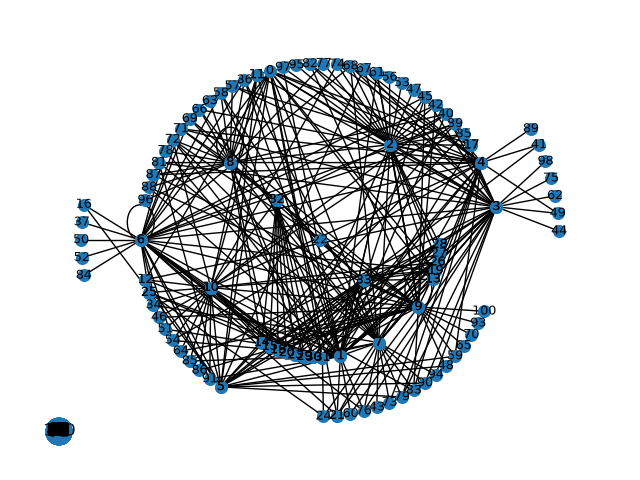
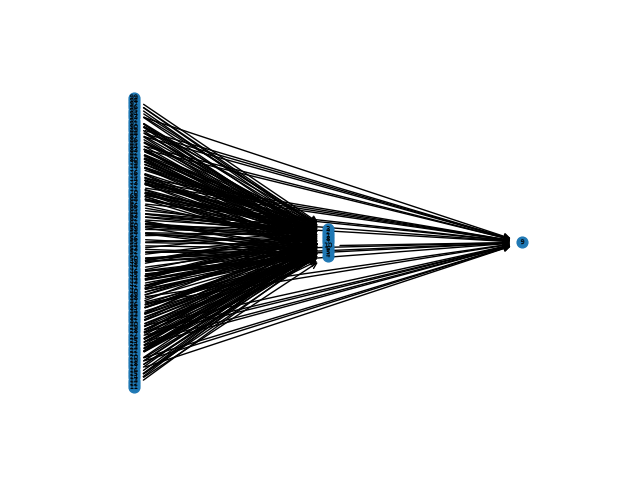
implementado modelo no script principal (teste)

Changed region(s): [[0.0938, 0.0938, 0.9062, 0.9062], [0.0625, 0.875, 0.125, 0.9375]]

diff --git a/src/main.py b/src/main.py
@@ -5,6 +5,9 @@ from pathlib import Path
 from pprint import pprint
 import matplotlib.pyplot as plt
 import networkx as nx
+import numpy as np
+import gurobipy as gp
+from gurobipy import GRB
 
 import time
 import csv
@@ -47,39 +50,52 @@ pprint(demandantes)
 pprint(funcionarios)
 
 
-#G = nx.Graph()
+G = nx.DiGraph()
 
 # G = nx.balanced_tree(3, 5)
 # elarge = [(u, v) for (u, v, d) in G.edges(data=True) if d["weight"] > 0.5]
 
-G = nx.karate_club_graph()
+# G = nx.karate_club_graph()
+
+# funcionarios = funcionarios[0:30]
+
 
 for n in funcionarios:
+    
     pprint(n)
     if n[2] == "":
         continue
     
     dem = n[2].rsplit(", ")
+    n[2] = dem
     for d in dem:
+        d = int(d)
         pprint(f"{n[0]}->{d}")
-        G.add_edge(n[0], d, weight=1 )
+        G.add_edge(int(n[0]), int(d), weight=1 )
+        
     
+    
+    
+
 arestas = [(u, v) for (u, v, d) in G.edges(data=True)]
 
 pprint(arestas)
 
 # elarge = [(u, v) for (u, v, d) in G.edges(data=True) if d["weight"] > 0.5]
 # esmall = [(u, v) for (u, v, d) in G.edges(data=True) if d["weight"] <= 0.5]
-    
+  
+layers = dict(enumerate(nx.topological_generations(G)))
+pos = nx.multipartite_layout(G, subset_key=layers)
+
 # pos = nx.spring_layout(G, seed=100)  # positions for all nodes - seed for reproducibility
-pos = nx.nx_agraph.graphviz_layout(G, prog="twopi", args="")
+# pos = nx.nx_agraph.graphviz_layout(G, prog="twopi", args="")
 
 
 # nodes
-nx.draw_networkx_nodes(G, pos, node_size=70)
+nx.draw_networkx_nodes(G, pos, node_size=60)
 
 # edges
-nx.draw_networkx_edges(G, pos, edgelist=arestas, width=1)
+nx.draw_networkx_edges(G, pos, edgelist=arestas, width=1, arrows=True, arrowstyle="->")
 
 
 # nx.draw_networkx_edges(
@@ -87,18 +103,82 @@ nx.draw_networkx_edges(G, pos, edgelist=arestas, width=1)
 # )
 
 # node labels
-nx.draw_networkx_labels(G, pos, font_size=9, font_family="sans-serif")
-# edge weight labels
-edge_labels = nx.get_edge_attributes(G, "critic")
-nx.draw_networkx_edge_labels(G, pos, edge_labels)
+nx.draw_networkx_labels(G, pos, font_size=5, font_family="sans-serif")
 
-nx.draw_circular(G, with_labels=True)
+# edge weight labels
+# edge_labels = nx.get_edge_attributes(G, "weight")
+# nx.draw_networkx_edge_labels(G, pos, edge_labels, font_size=5)
+
+# nx.draw_circular(G, with_labels=True)
 
 ax = plt.gca()
+ax.width = 1600
+ax.height = 1200
 ax.margins(0.08)
 plt.axis("off")
-plt.tight_layout()
+# plt.tight_layout()
 plt.savefig("./img/network-func.png")
+
+
+
+
+
+
+
+
+
+
+
+
+# Example inputs
+elements = [(u) for (u, v, d) in funcionarios]  # [0, 1, 2, 3, 4]
+pprint(elements)
+weights = np.random.randint(low=1, high=10, size=(len(elements)))
+pprint(weights)
+array_2d = np.array(G.edges())
+subsets = {f'S{i}': row[2] for i, row in enumerate(funcionarios)}
+pprint(subsets)
+# subsets = {
+#     "S1": [0, 1, 2],
+#     "S2": [1, 3],
+#     "S3": [2, 3, 4],
+#     "S4": [0, 4],
+# }
+max_select = 30
+
+# Map each element to the subsets that cover it
+covering_subsets = {
+    i: [j for j, elems in subsets.items() if i in elems] for i in elements
+}
+
+model = gp.Model("max_coverage")
+
+x = model.addVars(subsets.keys(), vtype=GRB.BINARY, name="x")
+y = model.addVars(elements, vtype=GRB.BINARY, name="y")
+
+model.setObjective(
+    gp.quicksum(weights[int(i)] * y[i] for i in elements), GRB.MAXIMIZE
+)
+
+model.addConstrs(
+    (y[i] <= gp.quicksum(x[j] for j in covering_subsets[i]) for i in elements),
+    name="cover",
+)
+
+model.addConstr(gp.quicksum(x[j] for j in subsets) <= max_select, name="budget")
+
+model.optimize()
+
+if model.SolCount > 0:
+  selected = [j for j in subsets if x[j].X > 0.5]
+  covered = [i for i in elements if y[i].X > 0.5]
+  print("Selected subsets:", selected)
+  print("Covered elements:", covered)
+  print("Total covered weight:", model.ObjVal)
+
+
+
+
 
 
 
